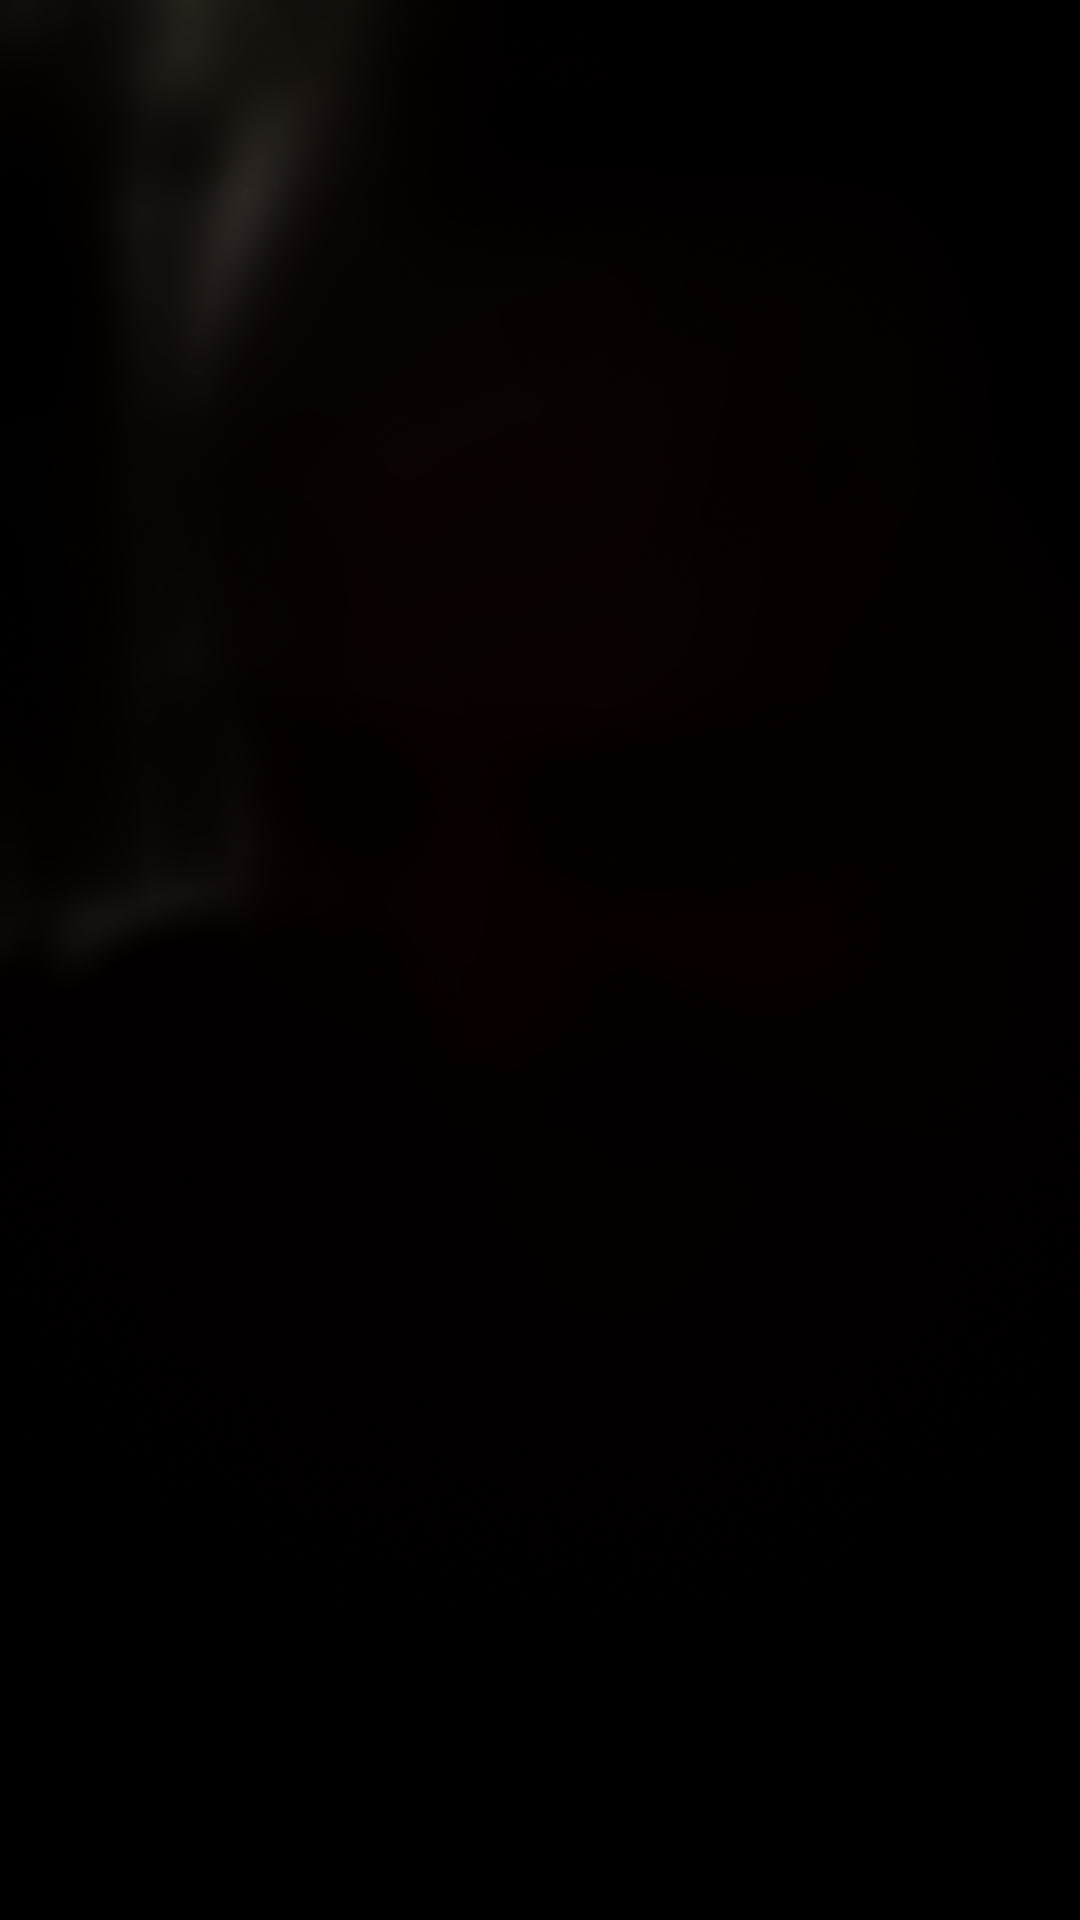
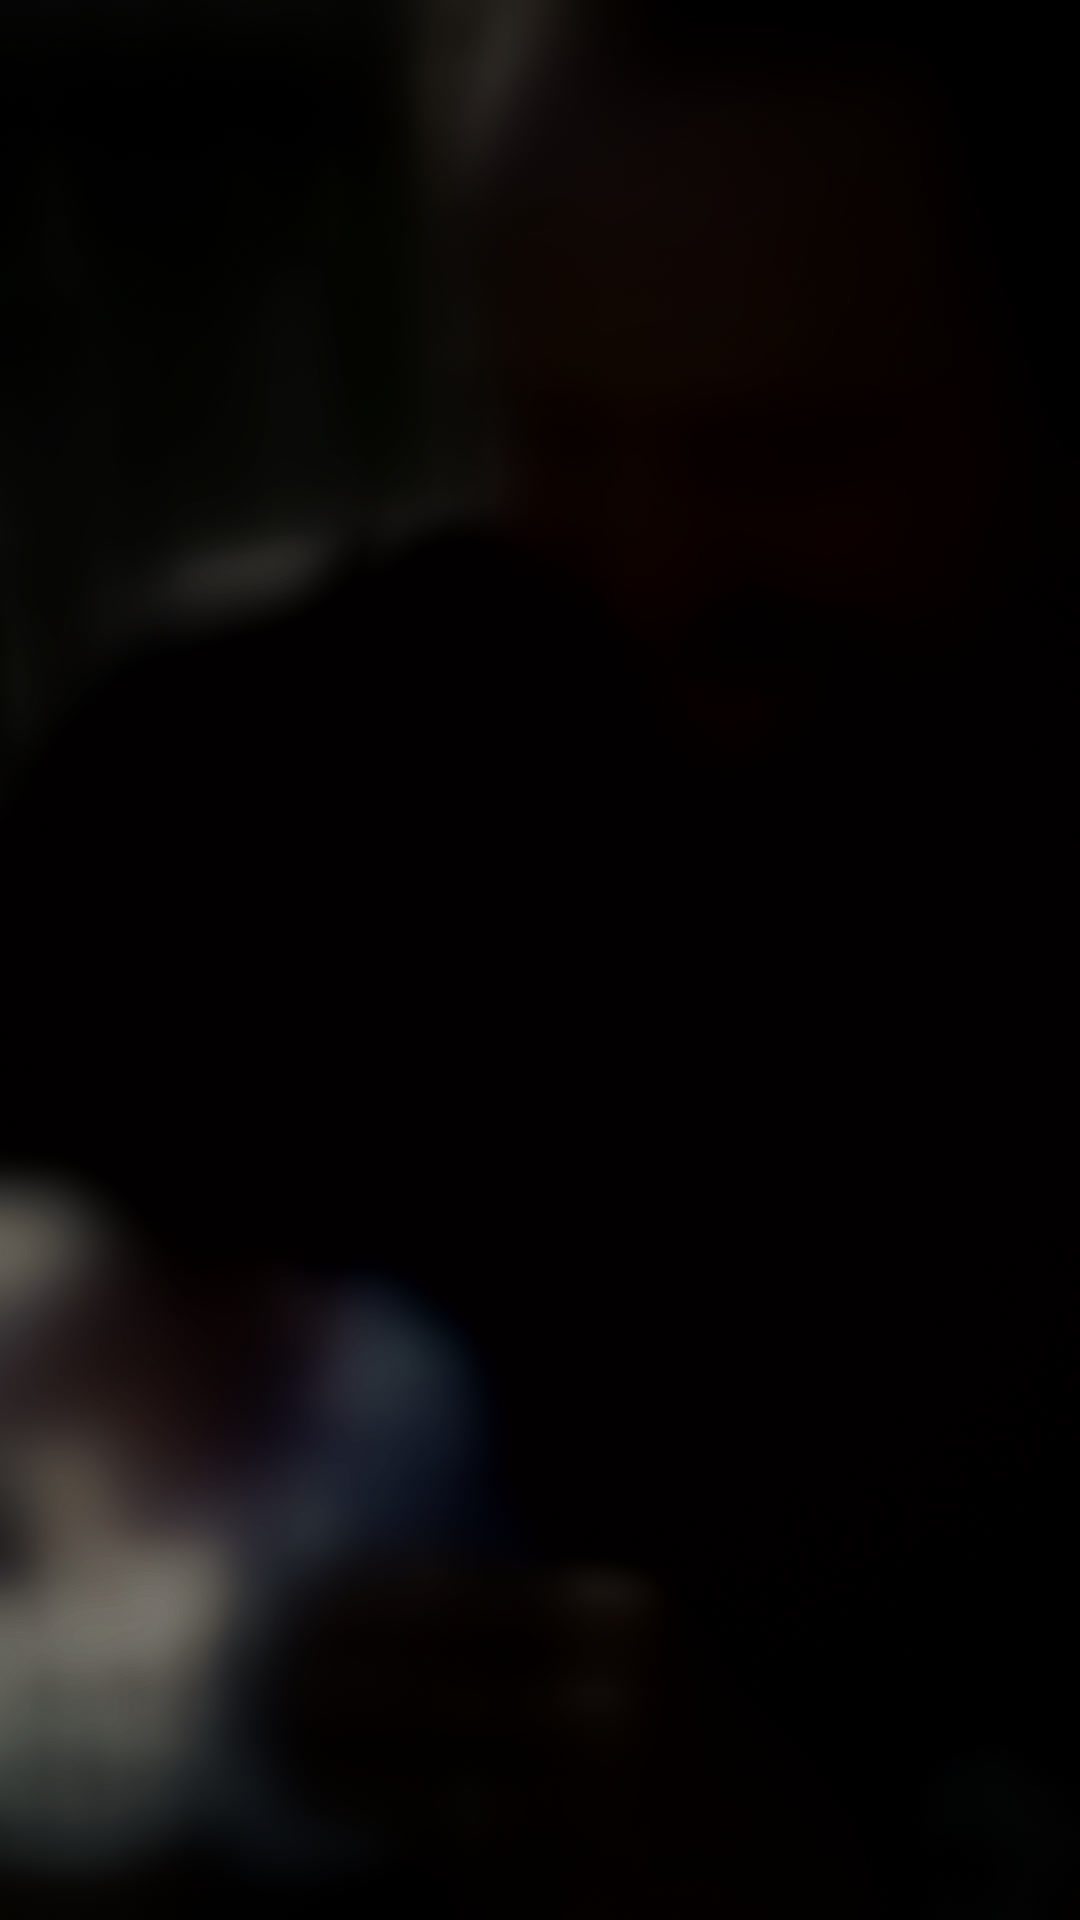
EP01 v5: fix portrait/court grading inputs, gentler opening push
Claude-Session: https://claude.ai/code/session_012oYdN2w13XS3aJvvwALdLV

diff --git a/ep1/prep/prep_assets.py b/ep1/prep/prep_assets.py
@@ -50,6 +50,7 @@ TARGET = {
     "night": (0.19, 0.28),  # night bodycam, full-frame vertical
     "interview": (0.21, 0.28),  # interview room
     "photo": (0.24, 0.32),  # family photos / booking photo
+    "portrait": (0.2, 0.4),  # opening portrait of Charles: keeps natural skin colour
     "place": (0.16, 0.28),  # CC location photos, full frame
     "doc": (0.38, None),  # court filing paper on the dark desk (v2 look)
     "bgblur": (0.07, 0.24),  # blurred backdrops behind the two landscape cards / polaroid
@@ -205,8 +206,10 @@ def images():
     still(["-i", GEN("baby_photo_safe.png")], "photo_charles_baby_bg.jpg",
           "crop=1080:1662:0:238,scale=1080:1920:force_original_aspect_ratio=increase,crop=1080:1920", "bgblur")
     # opening: Charles, arms crossed (real photo supplied by the producer), full screen
-    src = os.path.join(im, "charles_portrait.png")
-    still(["-i", src], "charles_portrait.jpg", "scale=1190:1920:flags=lanczos,crop=1080:1920:55:0,unsharp=5:5:0.6", "photo")
+    # (pre-scaled to 1080x1920 first: the grade solver measures without scale filters, so it needs the final framing)
+    big = GEN("charles_portrait_1080.png")
+    ff("-i", os.path.join(im, "charles_portrait.png"), "-vf", "scale=1190:1920:flags=lanczos,crop=1080:1920:55:0,unsharp=5:5:0.25", big)
+    still(["-i", big], "charles_portrait.jpg", "null", "portrait")
 
 
 def audio():

diff --git a/ep1/build.py b/ep1/build.py
@@ -39,7 +39,7 @@ INTERVIEW = ("POLICE INTERVIEW", "CHANDLER POLICE · JUL 11, 2019")
 FILING = ("COURT FILING", "MARICOPA COUNTY · FEB 2019")
 SHOTS = [
     # --- cold open: meet Charles (real bodycam, full screen; the push carries on through a freeze to his face)
-    dict(id="s01", kind="image", t=0.00, d=4.55, src="charles_portrait.jpg", kb=(1.0, 1.2, 0, 0), origin="50% 22%"),
+    dict(id="s01", kind="image", t=0.00, d=4.55, src="charles_portrait.jpg", kb=(1.0, 1.12, 0, 0), origin="50% 25%"),
     dict(id="s02", kind="image", t=4.55, d=3.60, src="chandler_aerial.jpg", kb=(1.18, 1.3, -6, 6)),
     dict(id="s03", kind="video", t=8.15, d=4.25, src="ai_party.mp4", kb=(1.0, 1.08, 0, 0), origin="35% 40%", ai="REENACTMENT"),
     dict(id="s05", kind="video", t=12.40, d=2.50, src="ai_family_walk.mp4", kb=(1.0, 1.05, 0, 0), ai="REENACTMENT"),
